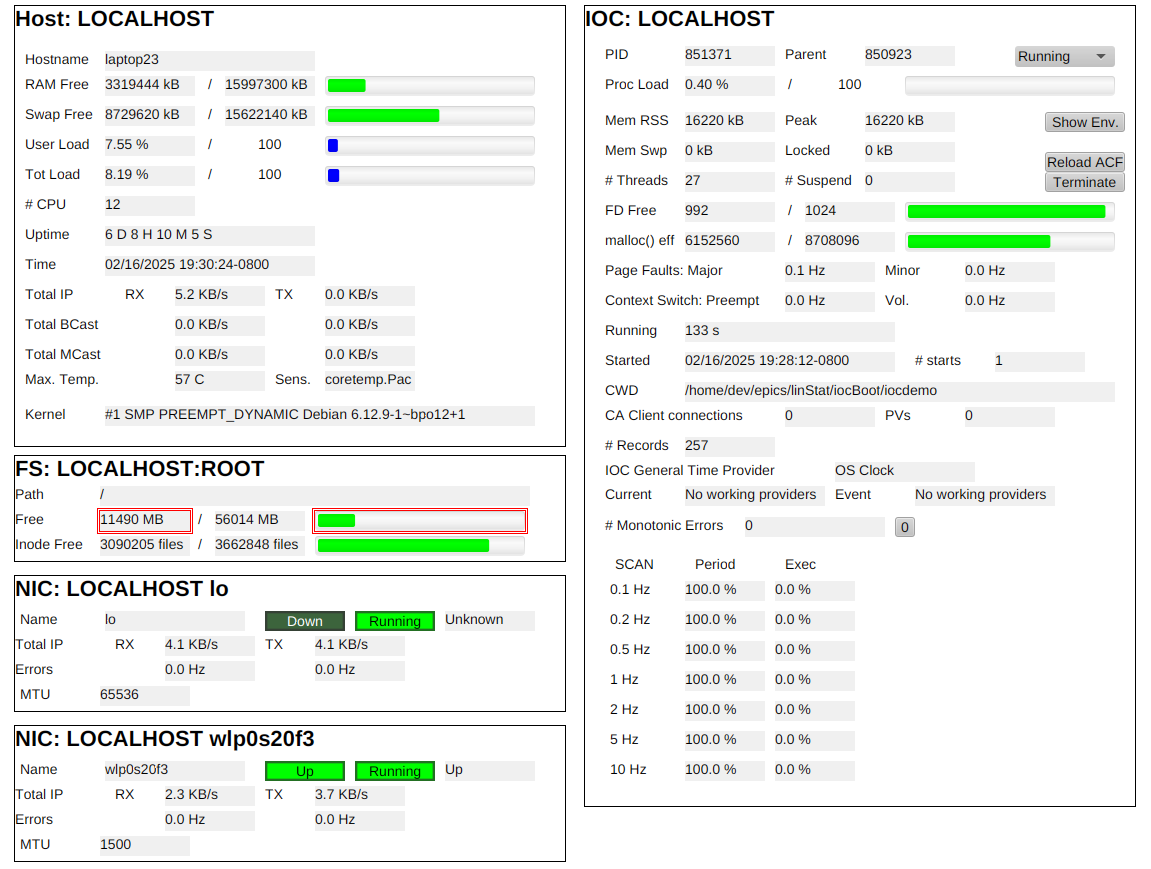
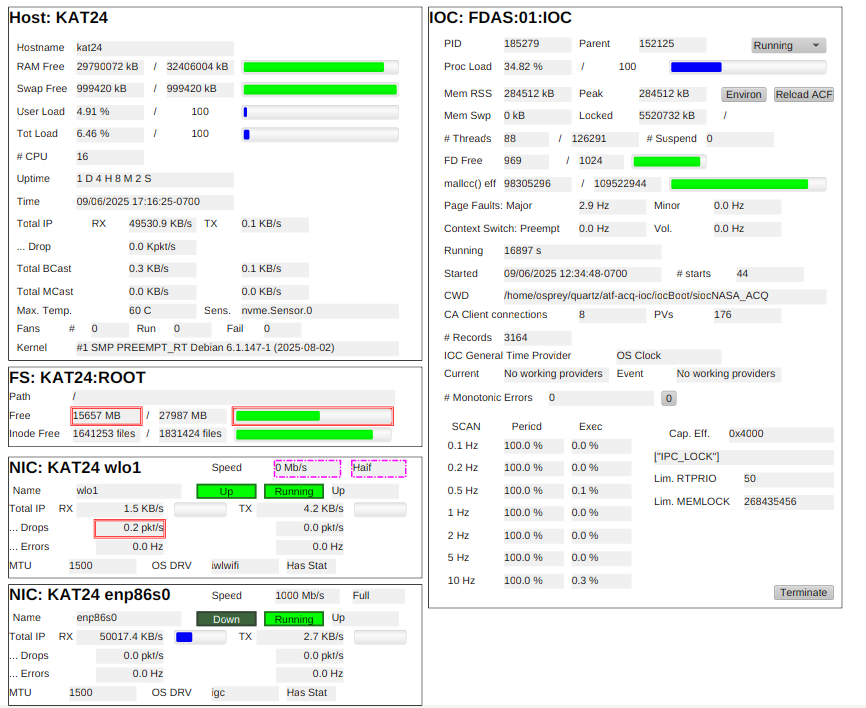
doc

Changed region(s): [[0.0, 0.0, 0.9977, 1.0], [0.9665, 0.9011, 0.9977, 0.9322]]

diff --git a/README.md b/README.md
@@ -143,12 +143,9 @@ iocInit()
     - callback pool info
     - scan once info
 - System
-  - [ ] Fan speed/status (`/sys/class/hwmon/hwmon*/fan*`)
   - [ ] Disk SMART status
   - [ ] RAID array state (`/proc/mdstat` or `ioctl(/dev/md0` or `/sys/block/*/md/array_state`)
   - [ ] Power/battery state
 - Process
-    - [ ] Capabilities mask?
 - FS
 - NIC
-    - [ ] Link speed
